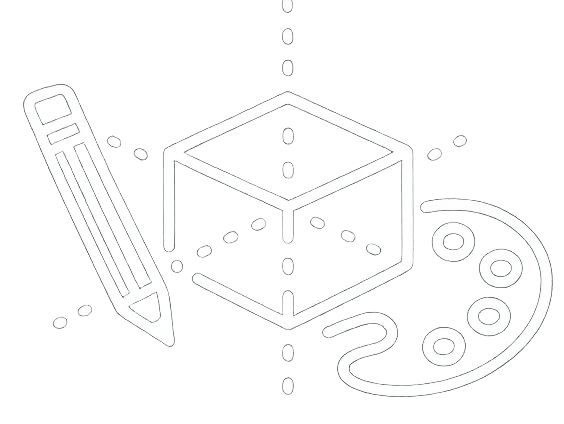
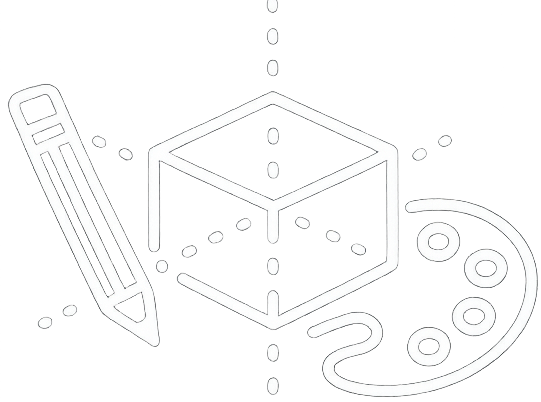
Update project

diff --git a/src/components/project-sections/TwoColumnSection.tsx b/src/components/project-sections/TwoColumnSection.tsx
@@ -76,19 +76,26 @@ const TwoColumnSection = ({ section }: TwoColumnSectionProps) => {
           <>
             {/* Check if this is Puddle Whispers Design Pillars (has "Reflection Through Interaction") */}
             {right.pillars.some(p => p.label === "Reflection Through Interaction") ? (
-              // Puddle Whispers: Improved alignment with grid layout
-              <div className="grid grid-cols-1 sm:grid-cols-3 gap-8 pt-4">
-                {right.pillars.map((pillar, index) => {
-                  const Icon = iconMap[pillar.icon];
-                  return (
-                    <div key={index} className="flex flex-col items-center gap-3">
-                      <div className="w-16 h-16 rounded-lg bg-primary/10 border border-primary/30 flex items-center justify-center flex-shrink-0">
-                        {Icon && <Icon className="w-8 h-8 text-primary" />}
+              // Puddle Whispers: Centered, balanced layout with equal card sizes
+              <div className="flex justify-center pt-4">
+                <div className="grid grid-cols-1 sm:grid-cols-3 gap-6 sm:gap-8 w-full max-w-2xl">
+                  {right.pillars.map((pillar, index) => {
+                    const Icon = iconMap[pillar.icon];
+                    return (
+                      <div 
+                        key={index} 
+                        className="flex flex-col items-center justify-center gap-3 min-h-[120px] w-full"
+                      >
+                        <div className="w-16 h-16 rounded-lg bg-primary/10 border border-primary/30 flex items-center justify-center flex-shrink-0">
+                          {Icon && <Icon className="w-8 h-8 text-primary" />}
+                        </div>
+                        <span className="font-heading text-sm text-foreground text-center leading-tight min-h-[2.5rem] flex items-center justify-center">
+                          {pillar.label}
+                        </span>
                       </div>
-                      <span className="font-heading text-sm text-foreground text-center leading-tight">{pillar.label}</span>
-                    </div>
-                  );
-                })}
+                    );
+                  })}
+                </div>
               </div>
             ) : (
               // Other projects: Original layout

diff --git a/src/data/projects/sushi-2-go.ts b/src/data/projects/sushi-2-go.ts
@@ -21,7 +21,7 @@ export const sushi2Go: Project = {
       muted: true,
     },
     
-    // Two Column: Overview + Focus Areas
+    // Two Column: Project Breakdown + Key Contribution
     {
       type: "twoColumn",
       left: {
@@ -42,8 +42,13 @@ export const sushi2Go: Project = {
         ],
       },
       right: {
-        title: "Focus Areas",
-        bulletPoints: [],
+        title: "Key Contribution",
+        paragraphs: [
+          {
+            text: "• VFX Design (Minor Contribution): Implemented subtle screen-edge speed line effects to enhance the sense of movement and speed, providing clear visual feedback as the conveyor belt accelerates.",
+            highlights: ["VFX Design", "Minor Contribution", "screen-edge speed line effects", "sense of movement", "speed", "visual feedback", "conveyor belt accelerates"],
+          },
+        ],
       },
     },
     
@@ -64,18 +69,6 @@ export const sushi2Go: Project = {
       type: "imageGrid",
       images: [],
       columns: 2,
-    },
-    
-    // Key Contribution Section
-    {
-      type: "text",
-      title: "Key Contribution",
-      paragraphs: [
-        {
-          text: "• VFX Design (Minor Contribution): Implemented subtle screen-edge speed line effects to enhance the sense of movement and speed, providing clear visual feedback as the conveyor belt accelerates.",
-          highlights: ["VFX Design", "Minor Contribution", "screen-edge speed line effects", "sense of movement", "speed", "visual feedback", "conveyor belt accelerates"],
-        },
-      ],
     },
     
     // Team Collaboration Section
@@ -101,7 +94,7 @@ export const sushi2Go: Project = {
     // Experience the Level CTA
     {
       type: "levelExperienceCTA",
-      url: "https://your-playable-build-link-here",
+      url: "https://drive.google.com/file/d/17GgqfohRgyak-b7Z2gkb9qG6FCf8hqhW/view",
       imageUrl: "/images/cta-reference.png",
     },
     

diff --git a/src/components/ContactSection.tsx b/src/components/ContactSection.tsx
@@ -3,7 +3,7 @@ import { useRef } from "react";
 import { Mail, Linkedin, Youtube, Palette } from "lucide-react";
 
 const socialLinks = [
-  { icon: <Mail className="w-5 h-5" />, label: "Email", href: "mailto:your@email.com" },
+  { icon: <Mail className="w-5 h-5" />, label: "Email", href: "https://mail.google.com/mail/?view=cm&fs=1&to=Arjunreigns459@gmail.com" },
   { icon: <Linkedin className="w-5 h-5" />, label: "LinkedIn", href: "https://www.linkedin.com/in/arjun-kurapati-469711277" },
   { icon: <Palette className="w-5 h-5" />, label: "ArtStation", href: "https://arjunkurapati.artstation.com/" },
   { icon: <Youtube className="w-5 h-5" />, label: "YouTube", href: "https://www.youtube.com/@ArjunKurapati" },
@@ -61,8 +61,8 @@ const ContactSection = () => {
               <motion.a
                 key={link.label}
                 href={link.href}
-                target={link.label === "Email" ? undefined : "_blank"}
-                rel={link.label === "Email" ? undefined : "noopener noreferrer"}
+                target="_blank"
+                rel="noopener noreferrer"
                 className="group relative p-4 rounded-xl bg-secondary/50 backdrop-blur-sm border border-primary/20 hover:border-primary/40 hover:bg-primary/10 transition-all duration-300"
                 whileHover={{ scale: 1.05, y: -2, boxShadow: "0 10px 30px -10px hsla(262, 83%, 58%, 0.3)" }}
                 whileTap={{ scale: 0.98 }}

diff --git a/src/components/AboutSection.tsx b/src/components/AboutSection.tsx
@@ -16,14 +16,8 @@ const AboutSection = () => {
           animate={isInView ? { opacity: 1, x: 0 } : {}}
           transition={{ duration: 0.8 }}
         >
-          <div className="flex items-center gap-4 mb-4">
-            <div className="w-12 h-px bg-primary" />
-            <span className="font-heading text-sm tracking-[0.2em] text-primary uppercase">
-              Philosophy
-            </span>
-          </div>
           <h2 className="font-display text-3xl md:text-4xl font-bold text-gradient">
-            Design Approach
+            Greetings!
           </h2>
         </motion.div>
 
@@ -56,9 +50,6 @@ const AboutSection = () => {
               animate={isInView ? { opacity: 1, y: 0 } : {}}
               transition={{ duration: 0.8, delay: 0.3 }}
             >
-              <p>
-                Greetings!
-              </p>
               <p>
                 My name is Arjun, a Game Design student currently based in Warsaw, Poland, with a strong interest in Technical Level Design.
               </p>

diff --git a/src/components/project-sections/TextSection.tsx b/src/components/project-sections/TextSection.tsx
@@ -8,9 +8,12 @@ interface TextSectionProps {
 const TextSection = ({ section }: TextSectionProps) => {
   // Special layout for Level Streaming section
   const isLevelStreaming = section.title === "Level Streaming" && section.paragraphs.length >= 2;
+  
+  // Special padding for Key Contribution section (Sushi 2 Go)
+  const isKeyContribution = section.title === "Key Contribution";
 
   return (
-    <div className="mt-12 mb-8">
+    <div className={`mt-12 ${isKeyContribution ? 'mb-12' : 'mb-8'}`}>
       <div className="bg-primary/60 rounded-md px-4 py-3 mb-6">
         <h3 className="font-display text-lg font-semibold text-foreground text-center">
           {section.title}

diff --git a/src/utils/videoManager.ts b/src/utils/videoManager.ts
@@ -31,3 +31,4 @@ export const getVideoSources = (videoUrl: string): { webm: string; mp4: string }
   };
 };
 
+
